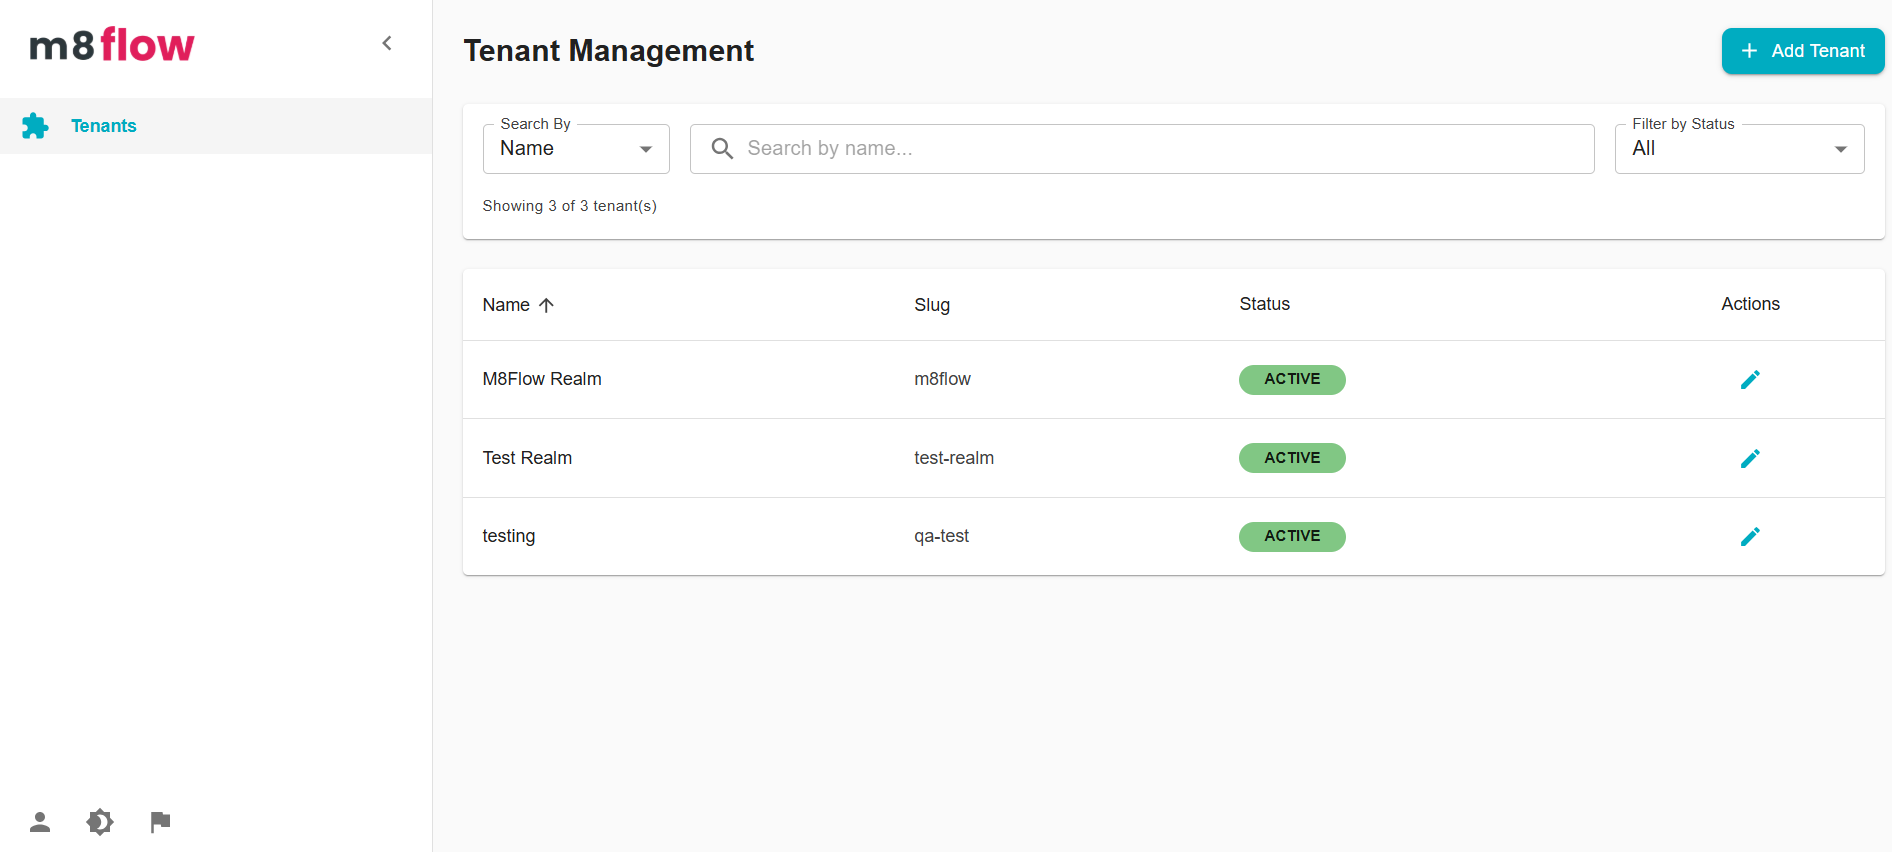
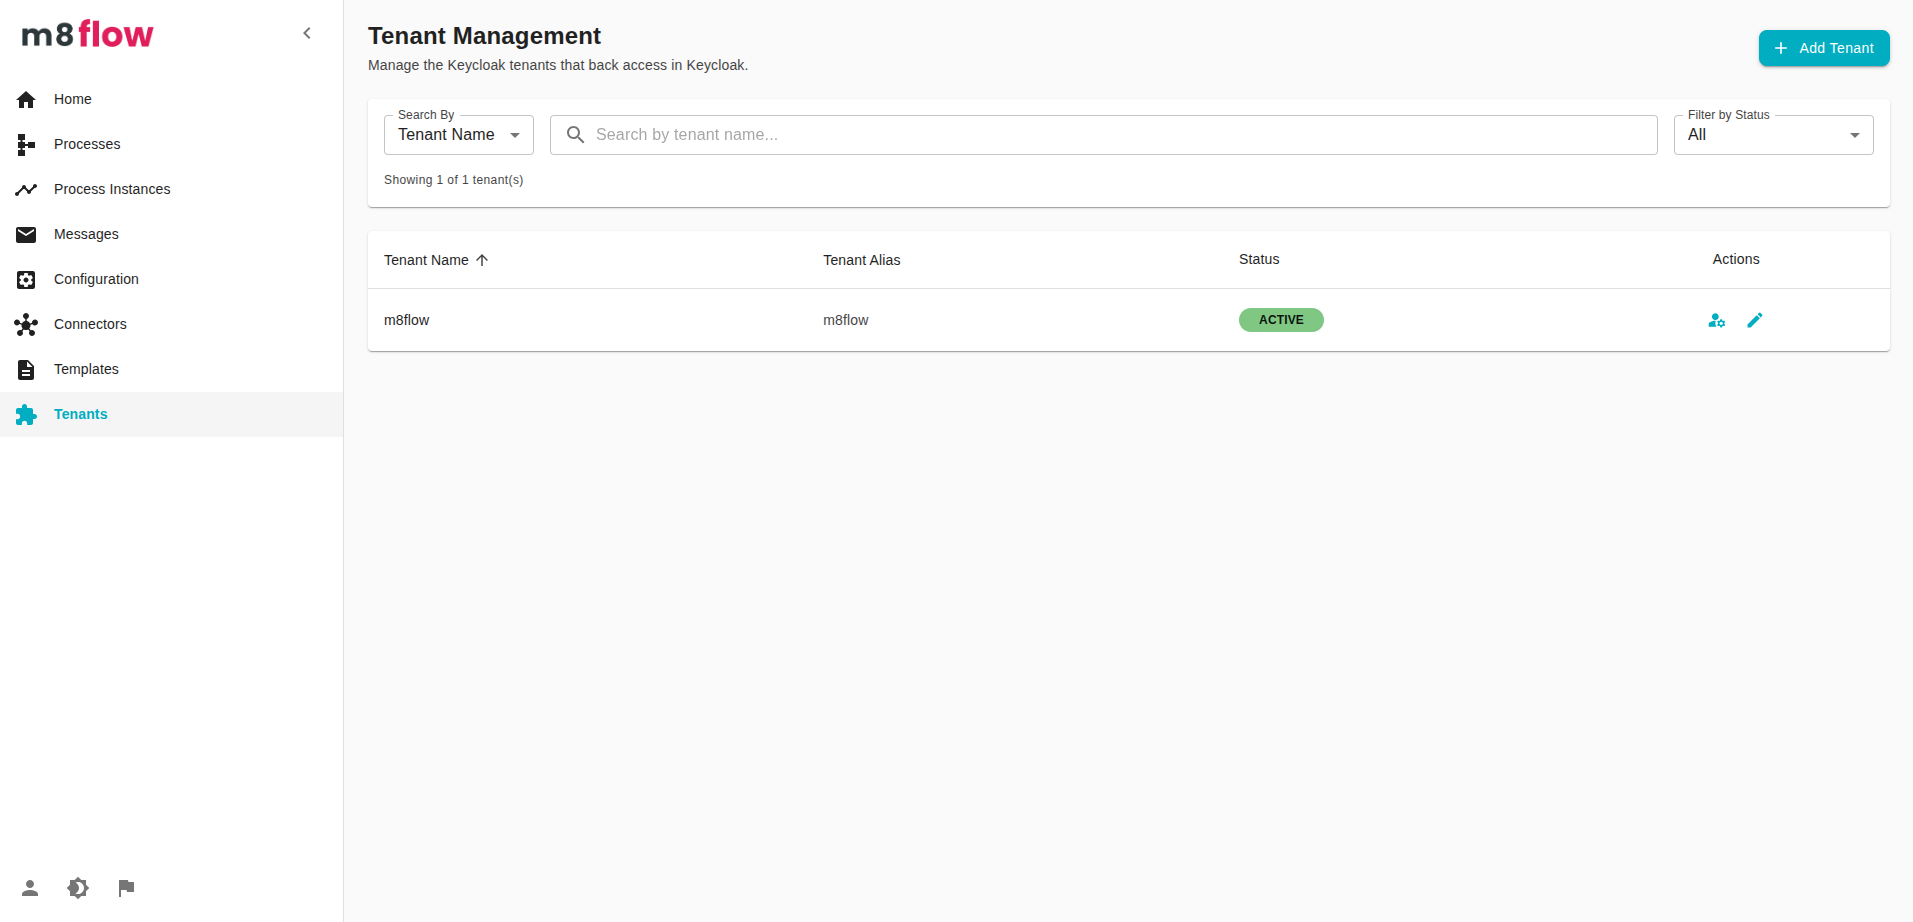
M8F-310: Update README with manage tenant group screenshot and refreshed login screen documentation

diff --git a/README.md b/README.md
@@ -130,23 +130,13 @@ docker compose -f docker/m8flow-docker-compose.yml up -d --build
 
 ## Signing In — Application Usage
 
-1. **Tenant Selection:**  
-   When you visit the application, you'll be prompted to select or enter your tenant slug. By default, the tenant `m8flow` will be available for you to use.
-
-   <div align="center">
-       <img src="./docs/images/access-m8flow-tenant-selection.png" />
-   </div>
-
-2. **Log In:**  
-   After choosing your tenant, you'll be redirected to the login page.
-
+1. **Log In:**  
    <div align="center">
        <img src="./docs/images/access-m8flow-1.png" />
    </div>
 
-
 <a id="try-the-default-test-users"></a>
-3. **Try the Default Test Users:**  
+2. **Try the Default Test Users:**  
 
    | Username     | Role                                  |
    |--------------|---------------------------------------|
@@ -176,12 +166,17 @@ After signing in, follow the [How to use m8flow](docs/how-to-use.md) guide to cr
    Go to [http://localhost:6841/](http://localhost:6841/) in your web browser.
 
 2. **Sign in as Global Admin:**  
-   Click on **"Global admin sign in"**.  
+   Click on **"Platform admin sign in"**.  
    <div align="center">
-      <img src="./docs/images/access-m8flow-tenant-selection.png" alt="Tenant Selection Screen"/>
+       <img src="./docs/images/access-m8flow-1.png" />
    </div>
 
-   Log in using the following credentials:
+
+   Then Log in using the following credentials:
+   <div align="center">
+       <img src="./docs/images/access-m8flow-super-admin-1.png" />
+   </div>
+
    ```
    Username: super-admin
    Password: super-admin
@@ -199,6 +194,11 @@ After signing in, follow the [How to use m8flow](docs/how-to-use.md) guide to cr
 
 1. Ensure the person already has a Keycloak account (created in the **Keycloak** Admin Console or via **self-registration** on the m8flow sign-in page, when enabled).
 2. Open **Tenant Management** and click **Manage Tenant Groups** for the tenant.
+
+<div align="center">
+        <img src="./docs/images/manage-tenant-group-btn.png" alt="Tenant Creation Screen"/>
+</div>
+
 3. Click **+ Add User** and select the existing user to add them to the tenant.
 4. In the **Members** table, assign group membership (Administrators, Designers, Viewers, and so on).
 5. In the **Groups** table, review which tenant-scoped roles each group grants (Tenant Admin, Editor, Integrator, Reviewer, Submitter, Viewer).
